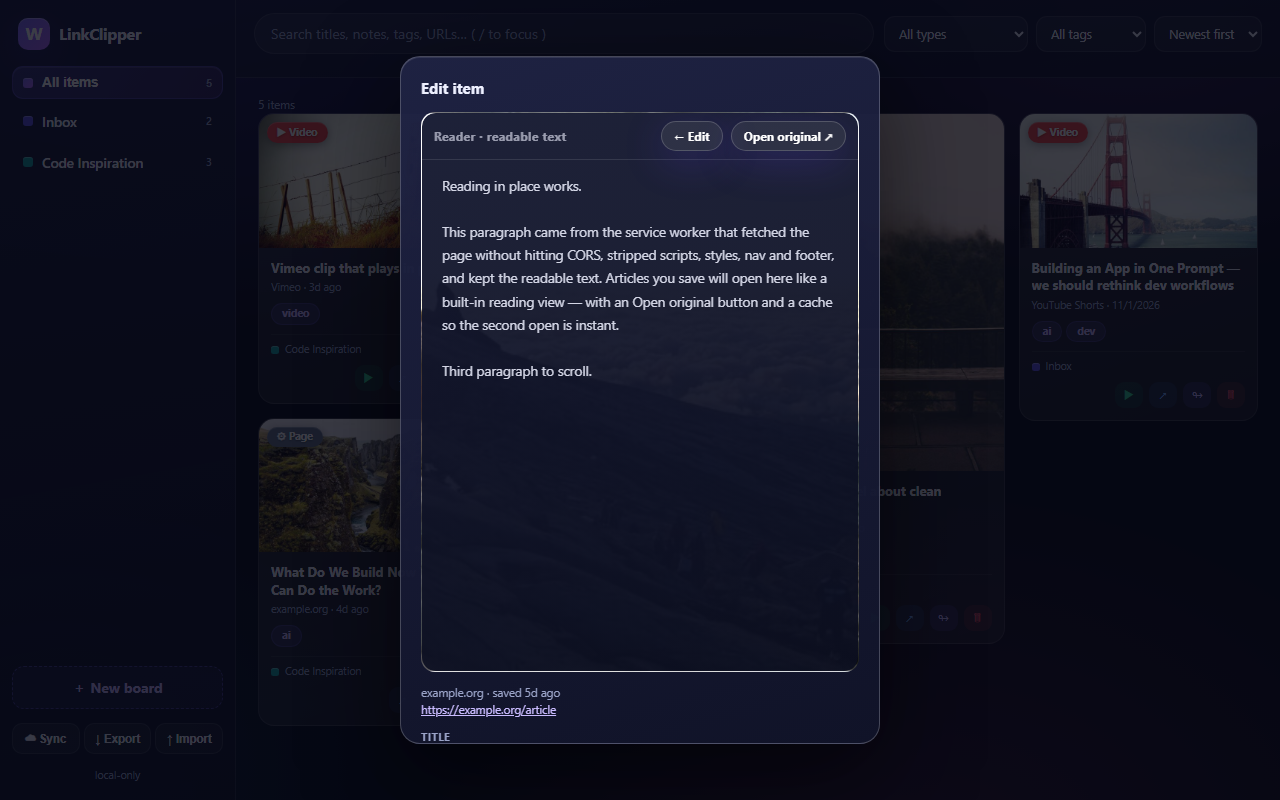
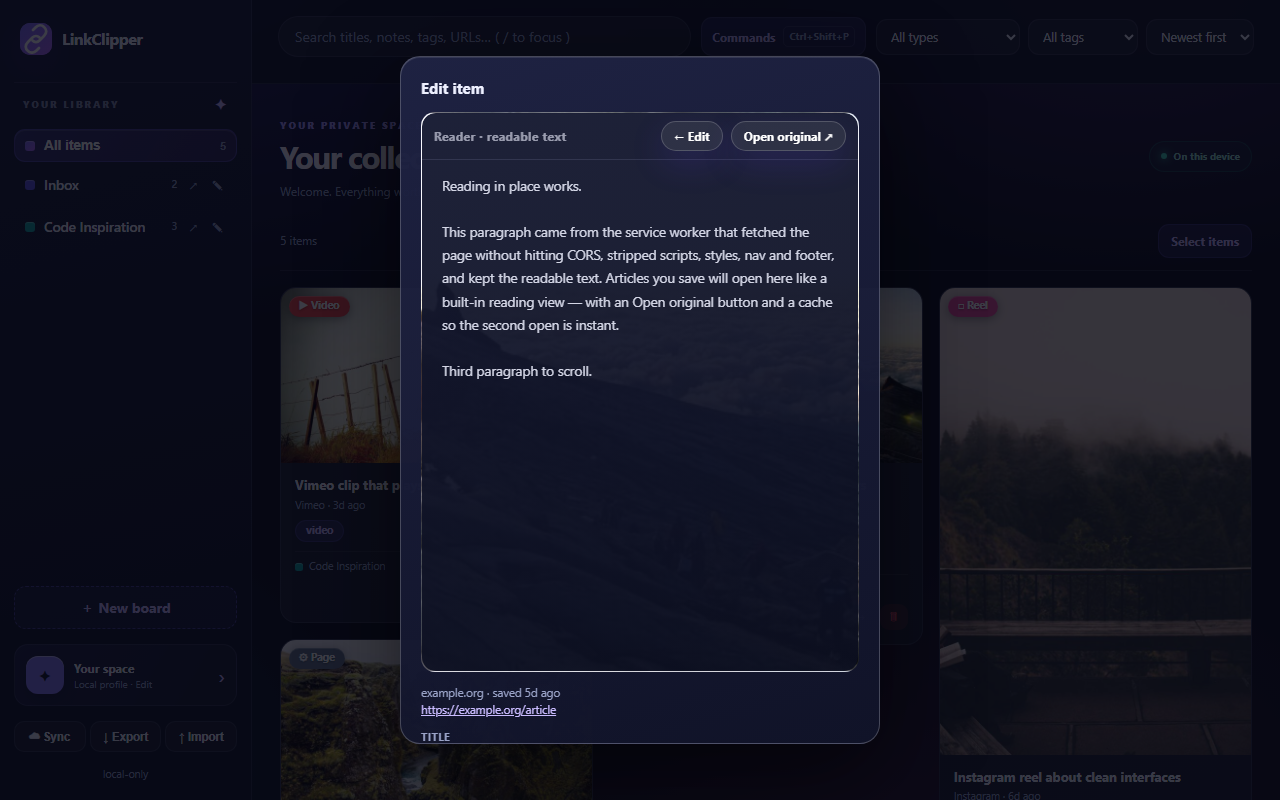
Update brand source and store screenshots for link mark

diff --git a/README.md b/README.md
@@ -6,7 +6,8 @@ Assets and the visual system for the LinkClipper org. Anything reusable (icons, 
 
 | Path | Contents |
 |---|---|
-| `icons/icon16/32/48/128.png` | The extension icon set (source of truth; copy into `linkclipper/icons/`) |
+| `icons/mark.svg` | The LinkClipper linked-loop vector mark (source of truth) |
+| `icons/icon16/32/48/128.png` | Raster extension icons, regenerated by `linkclipper/tools/make-icons.ps1` |
 | `webstore-screenshots/` | Store listing screenshots (1280×800), regenerated via `linkclipper/dashboard/dev.html?state=…` |
 | `brand-system.md` | Colors, type, UI language |
 
@@ -23,4 +24,4 @@ Screenshots are produced from the dev harness so no store build is needed:
 
 States: `""` grid · `reader` · `item` (edit modal). After edits, **visually inspect each PNG** (read it), then copy into this repo and into `linkclipper.github.io/assets/` (the site README embeds them by stable filename).
 
-Rules: current UI only (stale screenshots = rejected listing copy), seeded content must not overclaim features, regenerate whenever the dashboard visual language changes.
+Rules: current UI only (stale screenshots = rejected listing copy), seeded content must not overclaim features, regenerate whenever the dashboard visual language changes. Copy the same mark SVG and raster icons to the extension and site; never restore the old `W` badge.

diff --git a/brand-system.md b/brand-system.md
@@ -24,7 +24,7 @@ Aurora background = 4 fixed radial gradients (blue top-left, purple top-right, p
 - **Glass, no blur.** Translucent gradients + 1px light borders + soft glow read as glass; `backdrop-filter` is banned (see Knowledgebase, Windows GPU artifacts).
 - **Purple = action.** Gradients only on primary buttons (Save, New board, Play). Action icon chips hover to *solid* saturated color with dark ink.
 - **Type**: system stack, medium weights; titles 500–600, metadata 400. No custom webfonts in the extension (no remote code policy).
-- **Logos/wordmark**: "LinkClipper" one word, capital L and C always. The glyph is the `W` roundel on brand gradient (see `icons/`).
+- **Logos/wordmark**: "LinkClipper" one word, capital L and C always. The mark is two linked loops on the brand gradient — a saved link, not the former WebCollector `W`. `icons/mark.svg` is the vector reference; keep extension, site and store artwork identical. Do not use text glyphs or emoji as a substitute.
 
 ## Store copy voice
 
